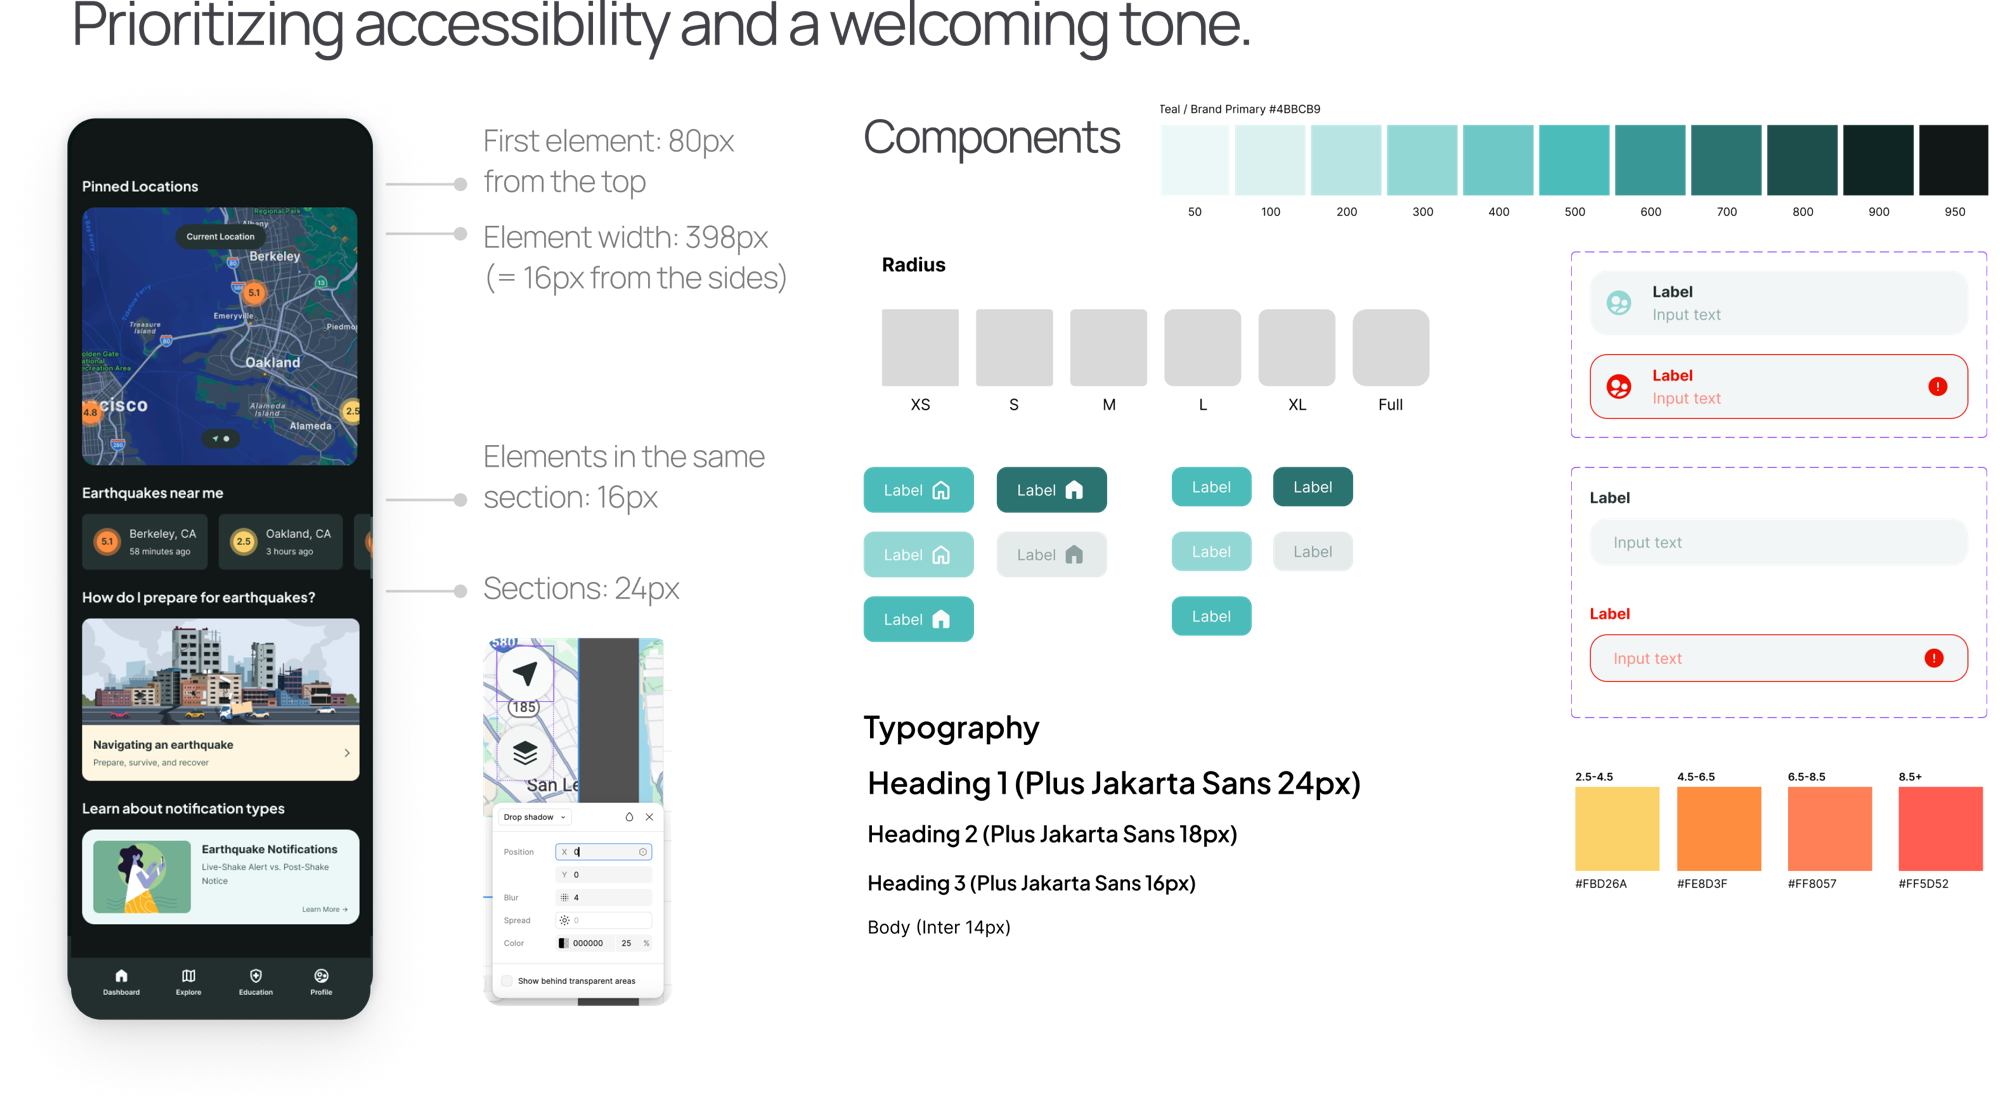
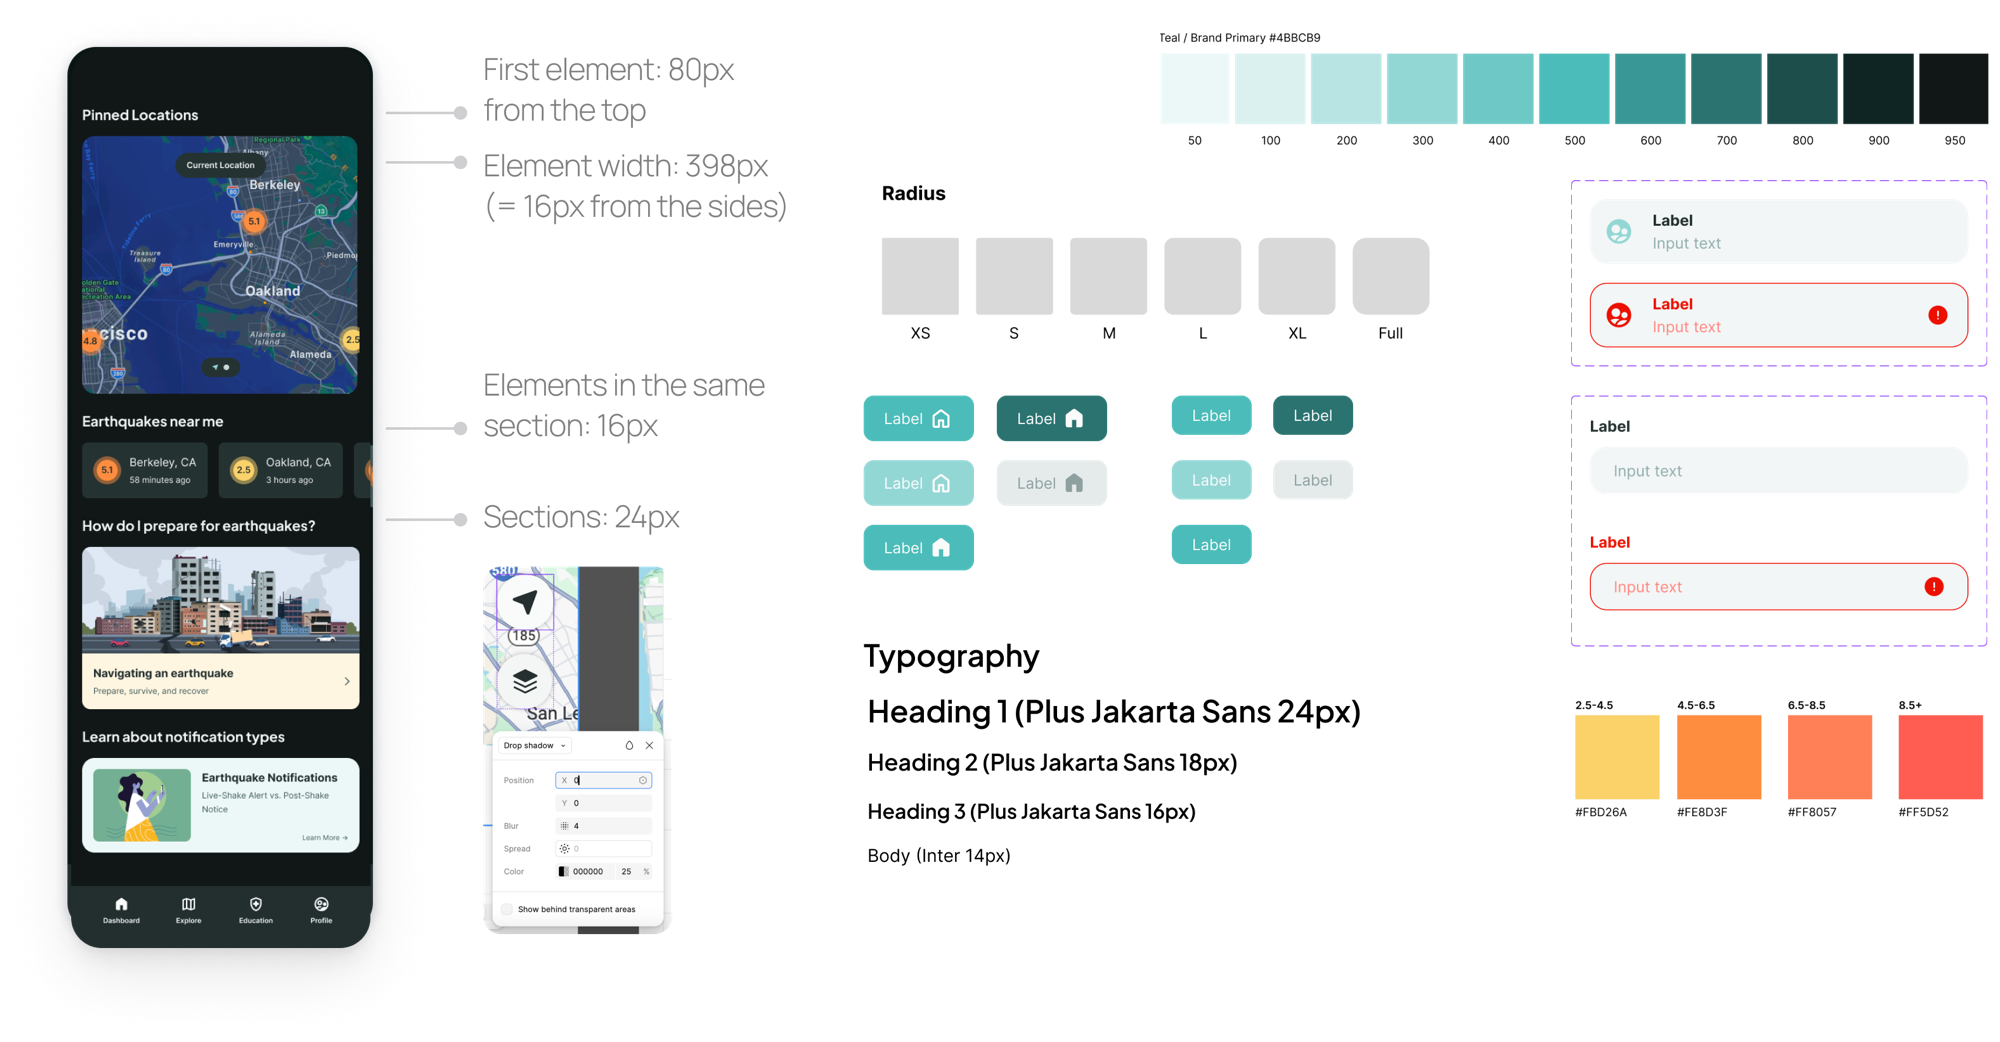
Fix image placement - add explanation section after solution on MyShake case study
- Replaced design system image with new design specs image (Image #26)
- Added home explanation image right after solution section (Image #25)
- Removed homepage explanation section from Portfolio
- Both images now show in MyShake case study with gradient backgrounds

EOF
)

diff --git a/src/MyShakeCaseStudy.tsx b/src/MyShakeCaseStudy.tsx
@@ -43,6 +43,7 @@ import myshakeDesignSystem from "./assets/myshake-design-system.png";
 import myshakeColorExploration from "./assets/myshake-color-exploration.png";
 import myshakeStoryboard from "./assets/myshake-storyboard.png";
 import myshakeFinalSolution from "./assets/myshake-final-solution.png";
+import myshakeHomeExplanation from "./assets/myshake-home-explanation.png";
 
 const SECTIONS: CaseSection[] = [
   { id: "intro", label: "Intro" },
@@ -889,6 +890,16 @@ const MyShakeCaseStudy: FC = () => {
             marginBottom: 40
           }}>
             <img src={myshakeFinalSolution} alt="MyShake final solution - complete app screens" style={{ width: "100%", height: "auto", borderRadius: "14px" }} />
+          </div>
+        </Reveal>
+
+        <Reveal>
+          <div style={{
+            background: "linear-gradient(135deg, #f5f5f5 0%, #fafafa 100%)",
+            padding: "60px 40px",
+            borderRadius: "14px"
+          }}>
+            <img src={myshakeHomeExplanation} alt="MyShake app features and explanation" style={{ width: "100%", height: "auto", borderRadius: "14px" }} />
           </div>
         </Reveal>
       </section>

diff --git a/src/Portfolio.tsx b/src/Portfolio.tsx
@@ -21,7 +21,6 @@ import idbridgeDocuments from "./assets/idbridge-documents.png";
 import idbridgeHistory from "./assets/idbridge-history.png";
 import idbridgeMap from "./assets/idbridge-map.png";
 import nvidiaLogo from "./assets/nvidia-logo.webp";
-import myshakeHomeExplanation from "./assets/myshake-home-explanation.png";
 
 // Preload hero image for faster initial render
 if (typeof window !== 'undefined') {
@@ -225,14 +224,6 @@ const Portfolio: FC = () => {
                 wipLabel="WIP"
               />
             </div>
-          </div>
-        </ContentContainer>
-      </div>
-
-      <div style={{ width: "100%", paddingTop: "clamp(80px, 12vw, 150px)", paddingBottom: "clamp(80px, 12vw, 150px)", boxSizing: "border-box" }}>
-        <ContentContainer>
-          <div style={{ marginBottom: 40 }}>
-            <img src={myshakeHomeExplanation} alt="MyShake app explanation - features and details" style={{ width: "100%", height: "auto", borderRadius: "16px" }} />
           </div>
         </ContentContainer>
       </div>
